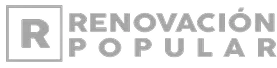
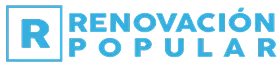
feat: add animation with colors and black & white

diff --git a/src/components/organisms/LogoLoop/LogoLoop.tsx b/src/components/organisms/LogoLoop/LogoLoop.tsx
@@ -1,8 +1,9 @@
 "use client";
 
-import { memo } from "react";
+import { memo, useState } from "react";
 import Image from "next/image";
 import { useLogoLoop } from "./useLogoLoop";
+import { ANIMATION_CONFIG } from "./LogoLoop.constants";
 
 const LogoItem = memo(function LogoItem({
   src,
@@ -25,12 +26,13 @@ const LogoItem = memo(function LogoItem({
 }) {
   return (
     <div
-      className="relative flex items-center justify-center transition-transform duration-300 ease-out"
+      className="relative flex items-center justify-center"
       style={{
         width,
         height,
         transform: isScaledDown ? "scale(0)" : "scale(1)",
         transitionDelay: `${index * transitionDelay}ms`,
+        transition: "transform 300ms ease-out",
       }}
     >
       <Image
@@ -47,28 +49,67 @@ const LogoItem = memo(function LogoItem({
 });
 
 export const LogoLoop = memo(function LogoLoop() {
-  const { currentPage, currentLogos, isScaledDown, config } = useLogoLoop();
+  const {
+    currentPage,
+    currentLogos,
+    isScaledDown,
+    responsiveConfig,
+    isClient,
+  } = useLogoLoop();
+  const [isHovered, setIsHovered] = useState(false);
 
-  const containerHeight = config.LOGO_HEIGHT + config.CONTAINER_PADDING;
+  const containerHeight =
+    responsiveConfig.LOGO_HEIGHT + ANIMATION_CONFIG.CONTAINER_PADDING;
+
+  // Prevent hydration mismatch by showing a placeholder on server
+  if (!isClient) {
+    return (
+      <section
+        className="relative w-full flex items-center justify-center py-4 sm:py-6"
+        style={{ minHeight: containerHeight }}
+        aria-label="Sección de partidos políticos"
+      >
+        <div className="flex flex-col sm:flex-row items-center justify-center gap-4 sm:gap-0">
+          <div className="shrink-0 sm:pr-4 md:pr-6 lg:pr-8 z-10 text-center">
+            <p className="text-[#A6A6A6] text-xs sm:text-sm md:text-base max-w-40 sm:max-w-44 md:max-w-52 lg:max-w-56 font-semibold">
+              Información imparcial sobre todos los partidos
+            </p>
+          </div>
+          <div className="flex items-center justify-center" role="list">
+            {/* Placeholder for SSR */}
+          </div>
+        </div>
+      </section>
+    );
+  }
 
   return (
     <section
-      className="relative w-full flex items-center justify-center py-6"
+      className="relative w-full flex items-center justify-center py-4 sm:py-6"
       style={{ minHeight: containerHeight }}
       aria-label="Sección de partidos políticos"
     >
-      <div className="flex items-center justify-center">
-        <div className="shrink-0 pr-8 z-10 text-center">
-          <p className="text-[#A6A6A6] max-w-56 font-semibold">
+      <div className="flex flex-col sm:flex-row items-center justify-center gap-4 sm:gap-0">
+        {/* Static text section - responsive */}
+        <div className="shrink-0 sm:pr-4 md:pr-6 lg:pr-8 z-10 text-center">
+          <p className="text-[#A6A6A6] text-xs sm:text-sm md:text-base max-w-40 sm:max-w-44 md:max-w-52 lg:max-w-56 font-semibold">
             Información imparcial sobre todos los partidos
           </p>
         </div>
 
+        {/* Logos container - responsive with hover effect */}
         <div
-          className="flex items-center justify-center gap-24"
+          className="flex items-center justify-center"
+          style={{
+            gap: responsiveConfig.GAP,
+            filter: isHovered ? "grayscale(0%)" : "grayscale(100%)",
+            transition: "filter 300ms ease-out",
+          }}
           role="list"
           aria-live="polite"
           aria-label="Logos de partidos políticos"
+          onMouseEnter={() => setIsHovered(true)}
+          onMouseLeave={() => setIsHovered(false)}
         >
           {currentLogos.map((logo, index) => (
             <LogoItem
@@ -77,9 +118,9 @@ export const LogoLoop = memo(function LogoLoop() {
               alt={logo.alt}
               index={index}
               isScaledDown={isScaledDown}
-              width={config.LOGO_WIDTH}
-              height={config.LOGO_HEIGHT}
-              transitionDelay={config.TRANSITION_DELAY_MS}
+              width={responsiveConfig.LOGO_WIDTH}
+              height={responsiveConfig.LOGO_HEIGHT}
+              transitionDelay={ANIMATION_CONFIG.TRANSITION_DELAY_MS}
               isPriority={currentPage === 0 && index < 3}
             />
           ))}

diff --git a/src/components/organisms/LogoLoop/useLogoLoop.ts b/src/components/organisms/LogoLoop/useLogoLoop.ts
@@ -1,13 +1,33 @@
 "use client";
 
-import { useState, useEffect, useCallback, useMemo } from "react";
+import {
+  useState,
+  useEffect,
+  useCallback,
+  useMemo,
+  useRef,
+  useSyncExternalStore,
+} from "react";
 import {
   PARTIDO_LOGOS,
-  LOGO_CONFIG,
+  RESPONSIVE_LOGO_CONFIG,
+  ANIMATION_CONFIG,
+  BREAKPOINTS,
   type PartidoLogo,
+  type Breakpoint,
+  type ResponsiveConfig,
 } from "./LogoLoop.constants";
 
 type AnimationState = "idle" | "animating-out" | "animating-in";
+
+const getBreakpoint = (width: number): Breakpoint => {
+  if (width >= BREAKPOINTS["2xl"]) return "2xl";
+  if (width >= BREAKPOINTS.xl) return "xl";
+  if (width >= BREAKPOINTS.lg) return "lg";
+  if (width >= BREAKPOINTS.md) return "md";
+  if (width >= BREAKPOINTS.sm) return "sm";
+  return "default";
+};
 
 const createLogoPages = (
   logos: readonly PartidoLogo[],
@@ -20,19 +40,50 @@ const createLogoPages = (
   return pages;
 };
 
+// Custom hook for window width using useSyncExternalStore
+const subscribeToResize = (callback: () => void) => {
+  window.addEventListener("resize", callback);
+  return () => window.removeEventListener("resize", callback);
+};
+
+const getWindowWidth = () =>
+  typeof window !== "undefined" ? window.innerWidth : 0;
+
+const getServerWidth = () => 0;
+
+const useWindowWidth = () => {
+  return useSyncExternalStore(
+    subscribeToResize,
+    getWindowWidth,
+    getServerWidth
+  );
+};
+
 export const useLogoLoop = () => {
   const [currentPage, setCurrentPage] = useState(0);
   const [animationState, setAnimationState] =
     useState<AnimationState>("animating-in");
 
+  // Use useSyncExternalStore for window width (SSR safe)
+  const windowWidth = useWindowWidth();
+  const breakpoint = getBreakpoint(windowWidth);
+  const isClient = windowWidth > 0;
+
+  // Track previous breakpoint to detect changes
+  const prevBreakpointRef = useRef<Breakpoint>(breakpoint);
+
+  // Get current responsive config
+  const responsiveConfig: ResponsiveConfig = RESPONSIVE_LOGO_CONFIG[breakpoint];
+
   const logoPages = useMemo(
-    () => createLogoPages(PARTIDO_LOGOS, LOGO_CONFIG.LOGOS_PER_PAGE),
-    []
+    () => createLogoPages(PARTIDO_LOGOS, responsiveConfig.LOGOS_PER_PAGE),
+    [responsiveConfig.LOGOS_PER_PAGE]
   );
 
   const totalPages = logoPages.length;
   const animationOutDuration =
-    LOGO_CONFIG.LOGOS_PER_PAGE * LOGO_CONFIG.TRANSITION_DELAY_MS + 300;
+    responsiveConfig.LOGOS_PER_PAGE * ANIMATION_CONFIG.TRANSITION_DELAY_MS +
+    300;
 
   const nextPage = useCallback(() => {
     setAnimationState("animating-out");
@@ -51,6 +102,25 @@ export const useLogoLoop = () => {
     return () => clearTimeout(timeoutId);
   }, [totalPages, animationOutDuration]);
 
+  // Reset page when breakpoint changes - using ref comparison
+  useEffect(() => {
+    if (prevBreakpointRef.current !== breakpoint) {
+      prevBreakpointRef.current = breakpoint;
+
+      // Use requestAnimationFrame to batch state updates
+      requestAnimationFrame(() => {
+        setCurrentPage(0);
+        setAnimationState("animating-in");
+
+        requestAnimationFrame(() => {
+          requestAnimationFrame(() => {
+            setAnimationState("idle");
+          });
+        });
+      });
+    }
+  }, [breakpoint]);
+
   // Initial animation
   useEffect(() => {
     const frameId = requestAnimationFrame(() => {
@@ -63,17 +133,21 @@ export const useLogoLoop = () => {
 
   // Page rotation interval
   useEffect(() => {
-    const interval = setInterval(nextPage, LOGO_CONFIG.PAGE_DISPLAY_MS);
+    const interval = setInterval(nextPage, ANIMATION_CONFIG.PAGE_DISPLAY_MS);
     return () => clearInterval(interval);
   }, [nextPage]);
 
-  const currentLogos = logoPages[currentPage];
+  // Safe access to current logos
+  const currentLogos = logoPages[currentPage] || logoPages[0] || [];
   const isScaledDown = animationState !== "idle";
 
   return {
     currentPage,
     currentLogos,
     isScaledDown,
-    config: LOGO_CONFIG,
+    responsiveConfig,
+    animationConfig: ANIMATION_CONFIG,
+    breakpoint,
+    isClient,
   };
 };

diff --git a/src/components/organisms/LogoLoop/LogoLoop.constants.ts b/src/components/organisms/LogoLoop/LogoLoop.constants.ts
@@ -19,10 +19,72 @@ export const PARTIDO_LOGOS = [
   { src: "/partidos/verde.webp", alt: "Partido Verde" },
 ] as const;
 
-export const LOGO_CONFIG = {
-  LOGOS_PER_PAGE: 6,
-  LOGO_HEIGHT: 56,
-  LOGO_WIDTH: 100,
+// Responsive breakpoints configuration
+// default: < 640px (mobile)
+// sm: >= 640px
+// md: >= 768px
+// lg: >= 1024px
+// xl: >= 1280px
+// 2xl: >= 1536px
+
+export type Breakpoint = "default" | "sm" | "md" | "lg" | "xl" | "2xl";
+
+export const BREAKPOINTS: Record<Breakpoint, number> = {
+  default: 0,
+  sm: 640,
+  md: 768,
+  lg: 1024,
+  xl: 1280,
+  "2xl": 1536,
+};
+
+export interface ResponsiveConfig {
+  LOGOS_PER_PAGE: number;
+  LOGO_HEIGHT: number;
+  LOGO_WIDTH: number;
+  GAP: number;
+}
+
+export const RESPONSIVE_LOGO_CONFIG: Record<Breakpoint, ResponsiveConfig> = {
+  default: {
+    LOGOS_PER_PAGE: 2,
+    LOGO_HEIGHT: 32,
+    LOGO_WIDTH: 56,
+    GAP: 16,
+  },
+  sm: {
+    LOGOS_PER_PAGE: 3,
+    LOGO_HEIGHT: 40,
+    LOGO_WIDTH: 72,
+    GAP: 24,
+  },
+  md: {
+    LOGOS_PER_PAGE: 4,
+    LOGO_HEIGHT: 44,
+    LOGO_WIDTH: 80,
+    GAP: 32,
+  },
+  lg: {
+    LOGOS_PER_PAGE: 5,
+    LOGO_HEIGHT: 48,
+    LOGO_WIDTH: 88,
+    GAP: 48,
+  },
+  xl: {
+    LOGOS_PER_PAGE: 6,
+    LOGO_HEIGHT: 52,
+    LOGO_WIDTH: 96,
+    GAP: 72,
+  },
+  "2xl": {
+    LOGOS_PER_PAGE: 6,
+    LOGO_HEIGHT: 56,
+    LOGO_WIDTH: 100,
+    GAP: 96,
+  },
+};
+
+export const ANIMATION_CONFIG = {
   TRANSITION_DELAY_MS: 150,
   PAGE_DISPLAY_MS: 7000,
   CONTAINER_PADDING: 48,

diff --git a/src/components/organisms/LogoLoop/index.ts b/src/components/organisms/LogoLoop/index.ts
@@ -1,6 +1,10 @@
 export { LogoLoop } from "./LogoLoop";
 export {
   PARTIDO_LOGOS,
-  LOGO_CONFIG,
+  RESPONSIVE_LOGO_CONFIG,
+  ANIMATION_CONFIG,
+  BREAKPOINTS,
   type PartidoLogo,
+  type Breakpoint,
+  type ResponsiveConfig,
 } from "./LogoLoop.constants";
